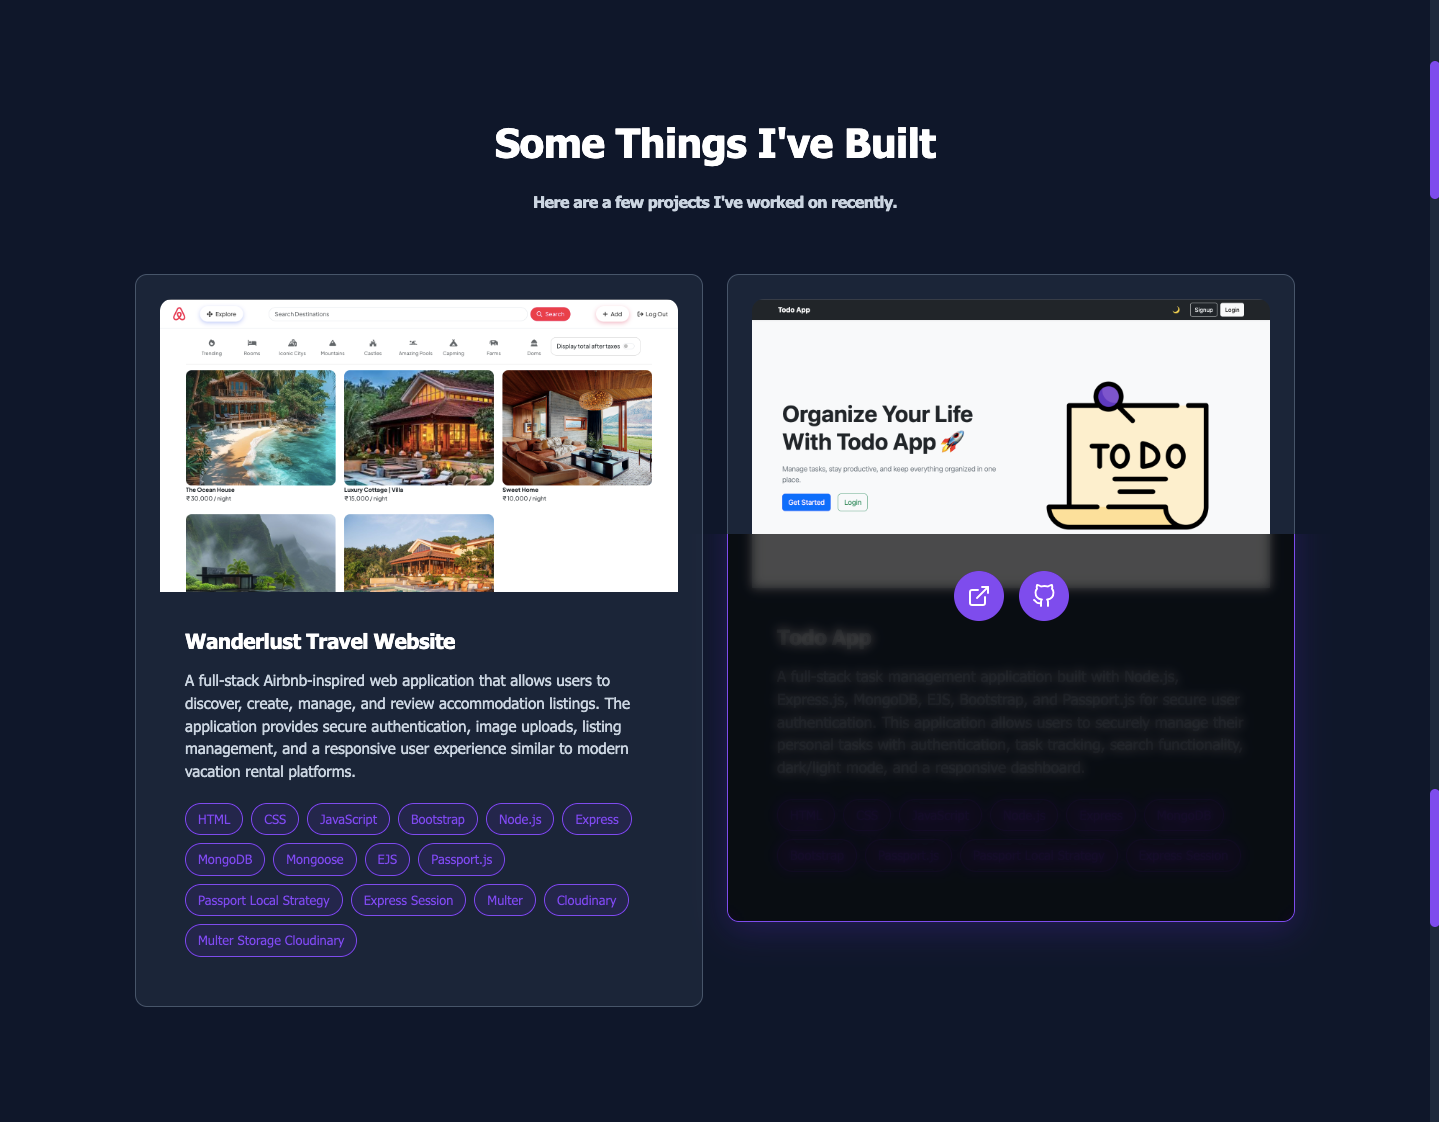
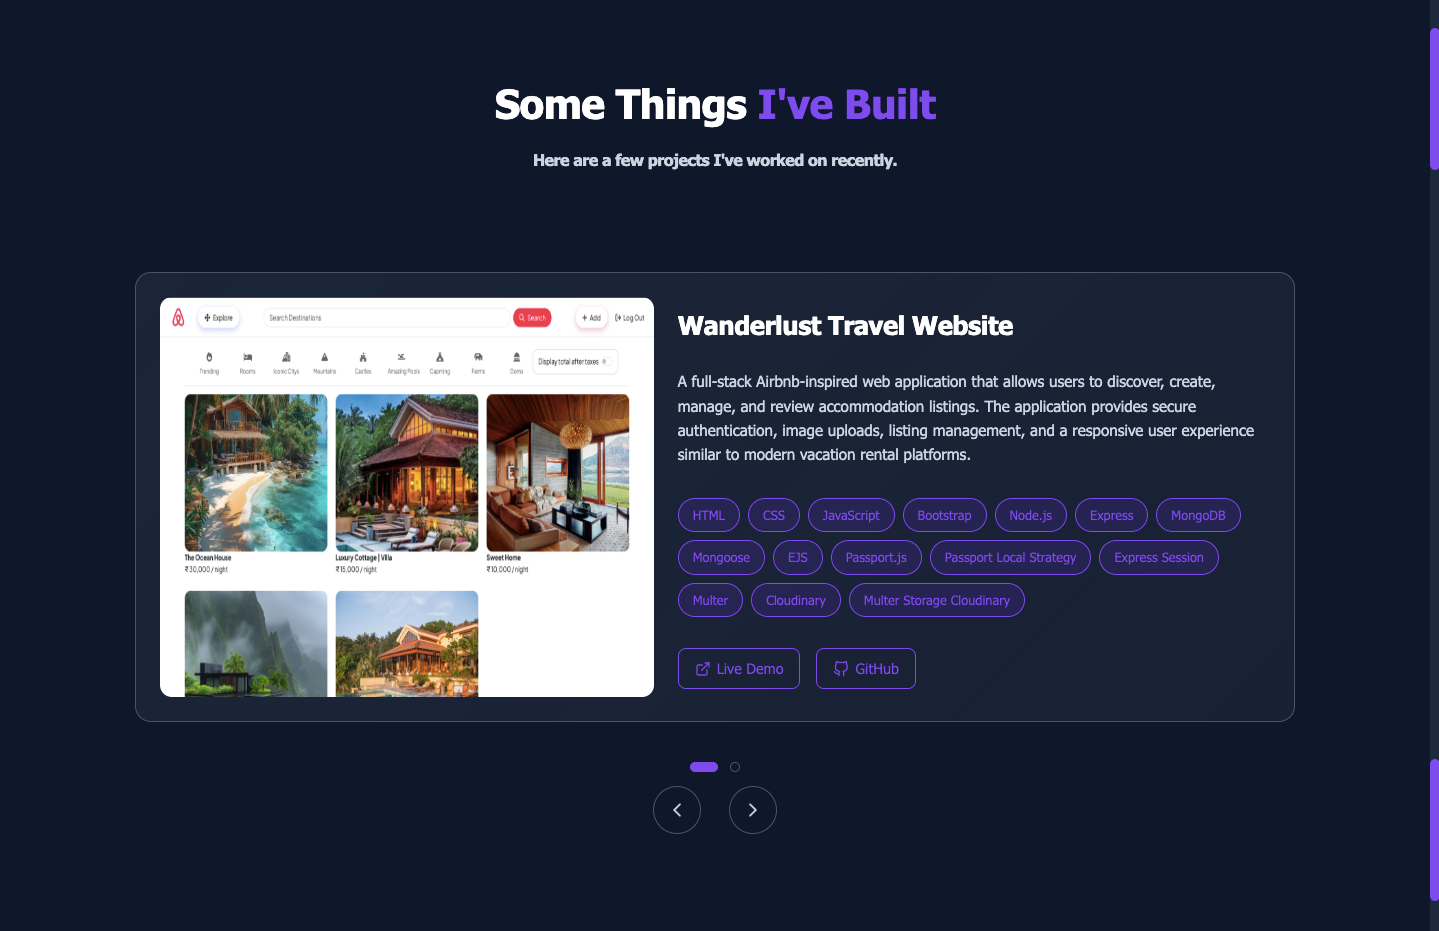
Project Images Added

diff --git a/README.md b/README.md
@@ -215,6 +215,8 @@ cd client
 npm run build
 ```
 
+---
+
 ## 📡 API Endpoints
 
 ### Projects
@@ -269,12 +271,17 @@ npm run build
 
 ## 📸 Screenshots
 
-| Section  | Description                                       |
-| -------- | ------------------------------------------------- |
-| Home     | Hero section with introduction and call-to-action |
-| Projects | Horizontal slider showcasing portfolio projects   |
-| Skills   | Categorized tech stack with icons                 |
-| Contact  | Form with real-time email notifications           |
+![Hero Section](screenshots/Hero-Section.png)
+_Hero section with introduction, name, and call-to-action button._
+
+![Project Section](screenshots/Project-Section.png)
+_Horizontal projects slider with navigation controls and project cards._
+
+![Skill Section](screenshots/Skill-Section.png)
+_Categorized skills section showing frontend and backend technologies._
+
+![Contact Section](screenshots/Contact-Section.png)
+_Contact form with message input and email notification support._
 
 ---
 
